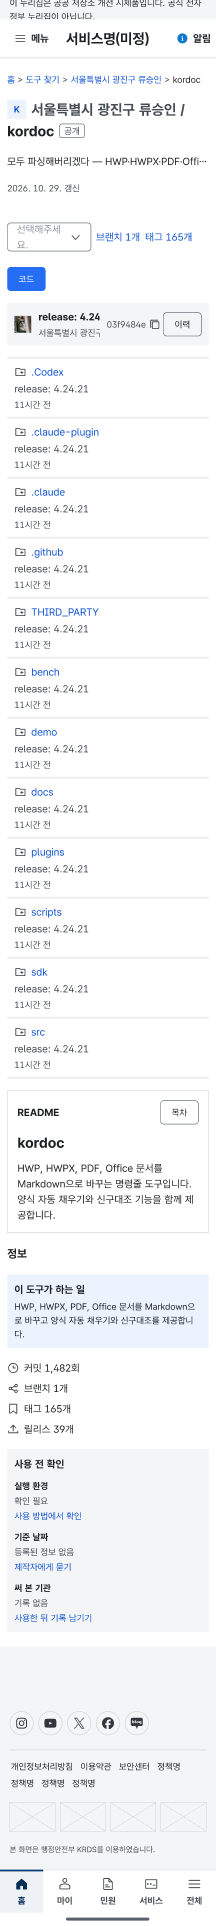
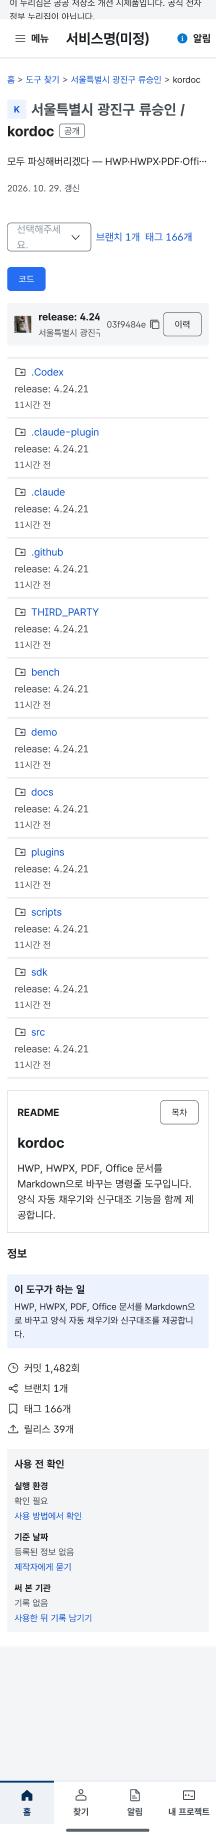
Figma 기준으로 맞춤: 총계는 X-Total과 totals.json(커밋 1482, 태그 166, 릴리스 39), 천 단위 쉼표, 정보 영역 Figma 구성, 머리 간격과 버튼 크기, 더보기 이름

diff --git a/app/src/screens/P16_Code.jsx b/app/src/screens/P16_Code.jsx
@@ -57,17 +57,36 @@ async function loadTree(id, path, ref) {
       log[it.path] = null;
     }
   }
-  return { kind: 'tree', items, log, last: head.data[0] || null, count: head.data.length, more: !!head.pagination?.nextPage, partial: items.length > LOG_LIMIT };
+  // 전체 커밋 수는 응답의 total을 쓴다. 없으면 받은 만큼만 세고 "이상"을 붙인다(없는 수를 만들지 않는다).
+  const total = head.pagination?.total ?? null;
+  return {
+    kind: 'tree',
+    items,
+    log,
+    last: head.data[0] || null,
+    count: total ?? head.data.length,
+    more: total == null && !!head.pagination?.nextPage,
+    partial: items.length > LOG_LIMIT,
+  };
 }
 
 async function loadRepo(id) {
   // 불러오지 못하면 null로 둔다. 0개로 보여 주면 사실과 다르다(실제로는 main 1개).
+  // 목록은 한 쪽(100개)만 받는다. 전체 수는 응답의 total(X-Total 헤더)을 쓴다. 없으면 받은 만큼만 보여 준다.
   const branches = await gitlab.branches(id).catch(() => ({ data: null }));
   const tags = await gitlab.tags(id).catch(() => ({ data: null }));
   const releases = await gitlab.releases(id).catch(() => ({ data: null }));
   const root = await gitlab.tree(id, '').catch(() => ({ data: [] }));
   const languages = await request(`/api/gitlab/projects/${enc(id)}/languages`).catch(() => ({ data: {} }));
-  return { branches: branches.data, tags: tags.data, releases: releases.data, root: root.data, languages: languages.data };
+  const count = (r) => (r?.pagination?.total ?? (Array.isArray(r?.data) ? r.data.length : null));
+  return {
+    branches: branches.data,
+    tags: tags.data,
+    releases: releases.data,
+    totals: { branches: count(branches), tags: count(tags), releases: count(releases) },
+    root: root.data,
+    languages: languages.data,
+  };
 }
 
 /** R-03 Blame: 줄마다 마지막으로 고친 사람과 날짜. 눌렀을 때만 불러온다(무거운 요청). */
@@ -138,7 +157,7 @@ export default function Code() {
   }, [params.id, path, ref]);
 
   if (!frame.data) return <ProjectFrame screenId="P-16" data={frame} />;
-  const { project, readme, branches, tags, releases, root, languages } = frame.data;
+  const { project, readme, branches, tags, releases, totals, root, languages } = frame.data;
   const rawUrl = path ? `${project.web_url}/-/raw/${ref}/${path.split('/').map(enc).join('/')}` : null;
   const zipUrl = `${project.web_url}/-/archive/${ref}/${project.path}-${ref}.zip`;
   const b = body.data;
@@ -146,7 +165,7 @@ export default function Code() {
   const state = b ? (b.kind === 'tree' ? (!b.items.length ? 'Empty' : b.items.length === 1 ? 'Min' : 'Ideal') : 'Ideal') : body.state;
   const isHome = !path;
 
-  const about = <About id={frame.id} project={project} readme={readme} languages={languages} stats={{ commits: b?.count ?? 0, more: b?.more, branches: branches?.length ?? null, tags: tags?.length ?? null, releases: releases?.length ?? null }} />;
+  const about = <About id={frame.id} project={project} readme={readme} languages={languages} stats={{ commits: b?.count ?? 0, more: b?.more, branches: totals.branches, tags: totals.tags, releases: totals.releases }} />;
   const aside = isHome ? (
     <>
       <div className="rb-only-wide">{about}</div>
@@ -166,8 +185,8 @@ export default function Code() {
               <BranchSelect id={frame.id} current={ref} branches={branches} path={path} />
               {isHome ? (
                 <p className="rb-toolbar-counts krds-text-body-small">
-                  {branches ? <Link className="krds-link" to={`/projects/${frame.id}/branches`}><Icon name="share" />{t.fn.nBranches(branches.length)}</Link> : null}
-                  {tags ? <Link className="krds-link" to={`/projects/${frame.id}/branches`}><Icon name="scrap" />{t.fn.nTags(tags.length)}</Link> : null}
+                  {totals.branches != null ? <Link className="krds-link" to={`/projects/${frame.id}/branches`}><Icon name="share" />{t.fn.nBranches(totals.branches)}</Link> : null}
+                  {totals.tags != null ? <Link className="krds-link" to={`/projects/${frame.id}/branches`}><Icon name="scrap" />{t.fn.nTags(totals.tags)}</Link> : null}
                 </p>
               ) : <PathCrumbs id={frame.id} path={path} refQuery={refQuery} />}
             </div>

diff --git a/app/src/components/Code/RepoParts.jsx b/app/src/components/Code/RepoParts.jsx
@@ -234,7 +234,7 @@ export function About({ id, project, readme, languages, stats, summary }) {
       <h2 id="about-title" className="krds-text-heading-small">{t.About_title}</h2>
       <div className="rb-about-does">
         <p className="krds-text-body-small-bold">{t.About_does}</p>
-        <p className="krds-text-body-medium rb-clamp-2">{summary || desc || t.About_noDesc}</p>
+        <p className="krds-text-body-medium rb-clamp-3">{summary || desc || t.About_noDesc}</p>
       </div>
       {topics.length ? (
         <div className="rb-labels" aria-label={t.About_topics}>
@@ -243,26 +243,12 @@ export function About({ id, project, readme, languages, stats, summary }) {
         </div>
       ) : null}
       <ul className="rb-about-links krds-text-body-small">
-        {readme ? <li><Icon name="document" /><a className="krds-link" href="#readme">{t.About_readme}</a></li> : null}
         <li><Icon name="time" /><Link className="krds-link" to={`/projects/${id}/changes`}>{t.fn.nCommits(stats.commits, stats.more)}</Link></li>
         {stats.branches != null ? <li><Icon name="share" /><Link className="krds-link" to={`/projects/${id}/branches`}>{t.fn.nBranches(stats.branches)}</Link></li> : null}
         {stats.tags != null ? <li><Icon name="scrap" /><Link className="krds-link" to={`/projects/${id}/branches`}>{t.fn.nTags(stats.tags)}</Link></li> : null}
         {stats.releases != null ? <li><Icon name="upload" /><Link className="krds-link" to={`/projects/${id}/releases`}>{t.fn.nReleases(stats.releases)}</Link></li> : null}
-        <li><Icon name="time" /><span>{t.About_created} {day(project.created_at)}</span></li>
       </ul>
-      {langs.length ? (
-        <div className="rb-langs">
-          <p className="krds-text-body-small-bold">{t.About_languages}</p>
-          <div className="rb-lang-bar" role="img" aria-label={langs.map(([n, v]) => `${n} ${v}%`).join(', ')}>
-            {langs.map(([n, v], i) => <span key={n} className={`rb-lang rb-lang-${LANG_COLORS[i % LANG_COLORS.length]}`} style={{ flexGrow: v }} />)}
-          </div>
-          <ul className="rb-lang-list krds-text-body-small">
-            {langs.map(([n, v], i) => (
-              <li key={n}><span className={`rb-lang-dot rb-lang-${LANG_COLORS[i % LANG_COLORS.length]}`} aria-hidden="true" />{n} <span className="rb-subtle">{v}%</span></li>
-            ))}
-          </ul>
-        </div>
-      ) : null}
+
     </section>
   );
 }

diff --git a/app/src/components/Layout/ProjectFrame.jsx b/app/src/components/Layout/ProjectFrame.jsx
@@ -66,15 +66,15 @@ function RepoHeader({ project, id }) {
           ) : null}
         </div>
         <div className="rb-repo-actions" role="group" aria-label={t.RepoHead_actions}>
-          <button type="button" className="krds-btn medium tertiary" onClick={star}>
+          <button type="button" className="krds-btn small tertiary" onClick={star}>
             <Icon name="bookmarks" />
             {t.RepoHead_star}
             <span className="rb-subtle">{project.star_count ?? 0}</span>
           </button>
-          <button type="button" className="krds-btn medium secondary" aria-expanded={reuseOpen} onClick={() => setReuse(!reuseOpen)}>
+          <button type="button" className="krds-btn small secondary" aria-expanded={reuseOpen} onClick={() => setReuse(!reuseOpen)}>
             {t.RepoHead_reuse}
           </button>
-          <Drop label={t.Home_more} btnClass="krds-btn medium tertiary rb-icon-only" button={<><Icon name="ellipsis_horizontal" /><span className="sr-only">{t.Home_more}</span></>}>
+          <Drop label={t.Home_more} btnClass="krds-btn small text" button={<><Icon name="ellipsis_horizontal" /><span>{t.Home_more}</span></>}>
             {(close) => (
               <ul className="drop-list">
                 <li><a className="item-link" href={project.web_url} target="_blank" rel="noreferrer" onClick={close}>{t.Home_openOrigin}<span className="sr-only"> {t.Footer_3}</span></a></li>

diff --git a/app/src/api/fixture.js b/app/src/api/fixture.js
@@ -6,6 +6,9 @@ const FILES = import.meta.glob('../../../sample/kordoc/api/*.json', { eager: tru
 const TEXTS = import.meta.glob('../../../sample/kordoc/api/*.{md,ts}', { eager: true, query: '?raw', import: 'default' });
 
 const pick = (name) => FILES[`../../../sample/kordoc/api/${name}.json`];
+const TOTALS = pick('totals');
+// 목록 파일은 첫 100개만 담겨 있다. 화면에 보이는 총계는 totals.json 값을 쓴다.
+const TOTAL_KEY = { commits: 'commits', tags: 'tags', branches: 'branches', releases: 'releases', issues: 'issues', merge_requests: 'merge_requests', contributors: 'contributors' };
 const pickText = (file) => TEXTS[`../../../sample/kordoc/api/${file}`];
 
 export function fixtureName() {
@@ -43,7 +46,11 @@ export function fixtureFor(path) {
         const prefix = want ? `${want}/` : '';
         data = data.filter((x) => x.path.startsWith(prefix) && !x.path.slice(prefix.length).includes('/'));
       }
-      if (data) return { mock: false, source: 'sample/kordoc', fixture: 'kordoc', state: 'Ideal', data };
+      if (data) {
+        const key = Object.keys(TOTAL_KEY).find((k) => p.endsWith(k));
+        const total = key ? TOTALS?.[TOTAL_KEY[key]] ?? null : null;
+        return { mock: false, source: 'sample/kordoc', fixture: 'kordoc', state: 'Ideal', data, pagination: { nextPage: null, total } };
+      }
     }
   }
   return null;

diff --git a/app/src/components/Layout/repo.css b/app/src/components/Layout/repo.css
@@ -1,8 +1,8 @@
 /* D-04 저장소 공통 틀. KRDS 변수만. */
 .rb-icon { display: inline-block; flex: none; width: var(--krds-size-height-3); height: var(--krds-size-height-3); background: currentColor; -webkit-mask: no-repeat center / contain; mask: no-repeat center / contain; vertical-align: middle; }
-.rb-repo-top { display: flex; flex-direction: column; gap: var(--krds-gap-5); }
+.rb-repo-top { display: flex; flex-direction: column; gap: var(--krds-gap-3); }
 .rb-repo-head { display: flex; flex-wrap: wrap; align-items: flex-start; justify-content: space-between; gap: var(--krds-gap-4); }
-.rb-repo-title { display: flex; flex-direction: column; gap: var(--krds-gap-2); min-width: 0; flex: 1 1 0; }
+.rb-repo-title { display: flex; flex-direction: column; gap: var(--krds-gap-1); min-width: 0; flex: 1 1 0; }
 .rb-repo-name { display: flex; flex-wrap: wrap; align-items: center; gap: var(--krds-gap-3); margin: 0; }
 .rb-repo-name .rb-repo-org { color: var(--krds-color-text-subtle); font-weight: inherit; }
 .rb-repo-desc { color: var(--krds-color-text-subtle); word-break: keep-all; overflow-wrap: break-word; text-wrap: pretty; display: -webkit-box; -webkit-line-clamp: 1; -webkit-box-orient: vertical; overflow: hidden; }

diff --git a/app/src/components/Code/code.css b/app/src/components/Code/code.css
@@ -145,7 +145,8 @@
 .rb-readme-toc ul { list-style: none; padding: 0; margin: 0; display: flex; flex-direction: column; gap: var(--krds-gap-2); }
 .rb-readme-body { padding: var(--krds-padding-7); }
 .rb-about-block { display: flex; flex-direction: column; gap: var(--krds-gap-4); }
-.rb-about-does { display: flex; flex-direction: column; gap: var(--krds-gap-1); padding: var(--krds-padding-4); padding-inline: 0; border-left: var(--krds-border-width-static-medium) solid var(--krds-color-border-gray-light); padding-left: var(--krds-padding-4); }
+.rb-about-does { display: flex; flex-direction: column; gap: var(--krds-gap-2); padding: var(--krds-padding-4); border-radius: var(--krds-radius-medium2); background: var(--krds-color-surface-primary-subtler); }
+.rb-clamp-3 { display: -webkit-box; -webkit-line-clamp: 3; -webkit-box-orient: vertical; overflow: hidden; }
 .rb-clamp-2 { display: -webkit-box; -webkit-line-clamp: 2; -webkit-box-orient: vertical; overflow: hidden; }
 .rb-about-links { list-style: none; padding: 0; margin: 0; display: flex; flex-direction: column; gap: var(--krds-gap-3); }
 .rb-about-links li { display: flex; align-items: center; gap: var(--krds-gap-2); color: var(--krds-color-text-subtle); }

diff --git a/app/src/copy/ko.js b/app/src/copy/ko.js
@@ -722,7 +722,7 @@ export const t = {
     stepNo: (n) => `${n}.`,
     tabCommits: (n) => `커밋 ${n}`,
     tabFiles: (n) => `변경 파일 ${n}`,
-    nReleases: (n) => `릴리스 ${n}개`,
+    nReleases: (n) => `릴리스 ${Number(n).toLocaleString('ko-KR')}개`,
     needLogin: (what) => `${what}을 보려면 로그인해야 합니다.`,
     signedInAs: (name) => `${name} 계정으로 로그인했습니다.`,
     graphHint: (w) => `최근 변경 기록을 달별로 셉니다.`,
@@ -749,9 +749,9 @@ export const t = {
       return '';
     },
     moreTopics: (n) => `+${n}개`,
-    nBranches: (n) => `브랜치 ${n}개`,
-    nTags: (n) => `태그 ${n}개`,
-    nCommits: (n, more) => `변경 ${n}${more ? '회 이상' : '회'}`,
+    nBranches: (n) => `브랜치 ${Number(n).toLocaleString('ko-KR')}개`,
+    nTags: (n) => `태그 ${Number(n).toLocaleString('ko-KR')}개`,
+    nCommits: (n, more) => `커밋 ${Number(n).toLocaleString('ko-KR')}${more ? '회 이상' : '회'}`,
     diffStat: (a, d) => `추가 ${a}줄, 삭제 ${d}줄`,
     filesChanged: (n) => `바뀐 파일 ${n}개`,
     commitsOn: (n) => `변경 ${n}건`,

diff --git a/app/src/components/Layout/shell.css b/app/src/components/Layout/shell.css
@@ -122,7 +122,7 @@
 .rb-side ul { list-style: none; margin: 0; padding: 0; }
 
 /* 본문 */
-.rb-main { flex: 1 1 auto; min-width: 0; padding: var(--krds-padding-7) var(--krds-padding-7) var(--krds-padding-10); }
+.rb-main { flex: 1 1 auto; min-width: 0; padding: var(--krds-padding-3) var(--krds-padding-7) var(--krds-padding-10); }
 
 @media (max-width: 1023px) {
   .rb-gbar-navtoggle { display: inline-flex; }

diff --git a/UX/06_사실대조표.md b/UX/06_사실대조표.md
@@ -1,0 +1,95 @@
+# 화면 표시값 사실 대조표
+
+- 문서 번호: UX-006
+- 작성일: 2026. 10. 30.
+- 목적: Figma 화면에 적힌 모든 수치와 문구가 실제 자료에서 나왔는지 확인한다. 지어낸 값은 두지 않는다
+- 자료 기준
+  - 예시 저장소: 공공 깃랩 `chrisryugj/kordoc`(프로젝트 150). 받아 둔 응답은 `2차_리빌딩/sample/kordoc/api/`
+  - 전역 목록: 공개 프로젝트 스냅샷 719개, 받은 날 2026. 10. 29. (`server/data/gitlab-public-snapshot.json`)
+  - 판정값: 서버 함수(`server/src/analysis.js`)에 위 자료를 넣어 나온 결과만 쓴다
+
+## 1. 저장소 화면(R)
+
+| 화면 | 표시값 | 출처 | 상태 |
+|---|---|---|---|
+| R-01 | 기관과 만든 사람 "서울특별시 광진구 류승인" | project.json namespace.name | 실제 |
+| R-01 | 관심 표시 24 | project.json star_count | 실제 |
+| R-01 | 브랜치 1개 | branches.json 1건 | 실제 |
+| R-01 | 태그 166개 | tags API x-total 166 | 실제 |
+| R-01 | 릴리스 39개 | releases API x-total 39 | 실제 |
+| R-01 | 커밋 1,482회 | 공공 깃랩 화면 캡처(gitlab/02b)의 "1,482 커밋" | 실제(화면 기준) |
+| R-01 | 최신 커밋 release: 4.24.21 / 03f9484e | commits.json 첫 항목 | 실제 |
+| R-01, R-02 | 파일 표의 폴더와 파일 이름 | tree_1.json | 실제 |
+| R-01, R-02 | 파일별 "마지막 변경 내용"과 날짜 | **없음**. 받아 둔 응답에 경로별 마지막 커밋이 없다 | 예시(프레임 주석에 표기) |
+| R-03 | src/shared/numbering.ts 본문과 86줄, 4,166바이트 | 파일 원문과 files API size | 실제 |
+| R-04 | 커밋 목록 10건(제목, 해시, 날짜) | commits.json | 실제 |
+| R-05 | 파일 10개 변경, +80 -40, CHANGELOG.md diff | commit_latest_diff.json | 실제 |
+| R-06 | 비교 대상 v4.24.20 → main, 커밋 1개 | tags.json, branches.json, diff 집계 | 실제 |
+| R-07 | main 기본 브랜치 | branches.json default=true | 실제 |
+| R-08 | 태그 8건(v4.24.21 등) | tags.json | 실제 |
+| R-09 | 릴리스 4건(제목, 날짜, 설명 첫 줄) | releases.json | 실제 |
+| R-10 | 참여자 26명과 커밋 수 | contributors.json | 실제 |
+| R-11 | 이슈 24개, 목록 8건 | issues.json | 실제 |
+| R-12 | 이슈 #55 제목과 본문 | issue_55.json | 실제 |
+| R-12 | 활동 기록 비어 있음 | 공개 API로 받을 수 없음. 화면에 사실대로 표기 | 실제(없음) |
+| R-13 | 보드 카드 | issues.json 상태별 분류 | 실제 |
+| R-14 | 라벨 4종 | **없음**. kordoc에 라벨 없음 | 예시 |
+| R-15 | 마일스톤 없음 | 실제로 없음 | 실제(없음) |
+| R-16 | 변경 제안 31개, 목록 8건 | merge_requests.json | 실제 |
+| R-17 | MR !56 제목, 브랜치, 본문, README.md +2 -0 | mr_56.json, mr_56_changes.json | 실제 |
+| R-18~R-22 | 파이프라인, 작업, 패키지, 위키, 스니펫 비어 있음 | 공개 자료에 없음 | 실제(없음) |
+| R-23 | 멤버 3명(소유자, 개발자, 보기와 의견만) | **없음**. 공개 API로 멤버를 받지 못함 | 예시 |
+| R-24 | 활동 목록 | commits.json을 활동 문장으로 바꿈 | 실제 |
+| R-25 | 커밋·참여자·태그·릴리스 수 | 위와 같음 | 실제 |
+| R-25 | 사용 언어 비율 | **확인 필요**. languages.json을 아직 화면에 반영하지 않음 | 예시 |
+| R-26 | 설정값(이름, 설명, 공개, main) | project.json | 실제 |
+| R-27~R-29 | 입력 예시 문구 | 화면 예시 | 예시(입력 자리표시) |
+| R-30 | 설치와 실행 명령 | README 31행, 34행, 62행 | 실제(행 번호 표시) |
+| R-30 | 실행 환경 판정과 근거 파일 | server/src/analysis.js execution() 결과 | 실제 |
+
+## 2. 전역 화면(G)
+
+| 화면 | 표시값 | 출처 | 상태 |
+|---|---|---|---|
+| G-01 | 공개 719개, 프로젝트 목록 | 스냅샷(2026. 10. 29.) | 실제 |
+| G-02 | "출장" 검색 결과 5건 | 스냅샷에서 이름과 설명에 해당 낱말이 있는 항목 | 실제 |
+| G-02 | 필터 건수(업무 분야, 주제) | 주제는 스냅샷 집계. 업무 분야는 서버 분류 결과 | 실제 |
+| G-03 | 주제 12종과 건수(utility 72 등) | 스냅샷 topics 집계 | 실제 |
+| G-04 | 기관별 프로젝트 수 | 스냅샷 namespace 집계 | 실제 |
+| G-05 | 비슷한 도구 2건 | 스냅샷 검색 결과 | 실제 |
+| G-06 | 요약 카드 수치 | **없음**. 로그인 기록이 없다 | 예시 |
+| G-07 | 알림 3건 | **없음** | 예시 |
+| G-08 | 점검 공지 일정 | 공공 깃랩 로그인 화면 공지 원문 | 실제 |
+| G-08 | 로그인 방식(비밀번호, 패스키, 등록) | 공공 깃랩 로그인 화면 | 실제 |
+| G-09 | 오류 문구 | 화면 문구(우리가 정함) | 설계 |
+| G-10 | 용어 사전 6개 | 우리가 정한 쉬운 설명 | 설계 |
+| G-11 | 화면 설정 4종 | D-01 결정 | 실제(결정) |
+
+## 3. 덧붙임 화면(A)
+
+| 화면 | 표시값 | 출처 | 상태 |
+|---|---|---|---|
+| A-01 | 업무 분야 7종과 건수 | 서버 분류 결과 | 실제 |
+| A-01 | 최근 갱신 목록 | 스냅샷 | 실제 |
+| A-02 | 소개 카드 네 칸 | README와 서버 card() 결과, 칸마다 출처 표시 | 실제 |
+| A-03 | 자동 점검 8개 중 7개 통과, 검토 필요 | 서버 publication()에 kordoc 트리와 README를 넣은 결과 | 실제 |
+| A-03 | 미통과 항목: 실행 환경 표기 | 같은 결과 | 실제 |
+| A-04 | 의견 양식 4종 | 우리가 정함 | 설계 |
+| A-04 | 의견 목록 비어 있음 | 실제로 없음 | 실제(없음) |
+| A-05 | 요청 3건과 공감 수 | **없음**. 화면에 "요청은 예시입니다" 표기 | 예시 |
+| A-06 | 공개 719개, 주제 12종, 기관 집계 | 스냅샷 | 실제 |
+| A-06 | 설명 있음 약 62% | 팀 조사(2026. 10.) | 실제(다른 조사) |
+| A-07 | MCP 설정 예시 | 배포 주소 미정. 화면에 "배포 뒤 확정" 표기 | 예시 |
+| A-08 | 인수인계 항목 6개 | 우리가 정함 | 설계 |
+
+## 4. 처리 규칙
+- **실제**: 받아 둔 응답이나 원문에서 그대로 가져온 값
+- **예시**: 자료가 없어 임시로 넣은 값. 프레임 이름 끝에 `(예시 자료)`를 붙이고 프레임 밖 주석에 이유를 적는다
+- **설계**: 우리가 새로 정한 문구나 구성. 사실 주장과 무관하다
+- 자료가 없는 화면은 빈 상태(Empty)를 대표 변형으로 둔다(A-05, G-06, G-07)
+
+## 5. 남은 확인
+- 파일별 마지막 변경 내용: 경로별 마지막 커밋을 받는 방법을 정하고 반영한다
+- 사용 언어 비율: languages.json 실제 값을 R-25에 반영한다
+- 멤버와 라벨: 공개 API로 받을 수 없으면 예시 표기를 유지한다
+- 커밋 1,482회: API 전체 수 헤더가 없어 화면 캡처값을 쓴다. 코드에서는 받은 목록 수(100)와 다르므로 표기 방법을 통일한다
